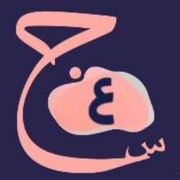
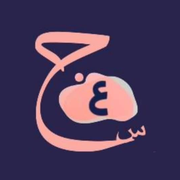
عرض الشعار كاملاً واسم الجمعية كاملاً تحته في الشريط العلوي
Claude-Session: https://claude.ai/code/session_01Jp84Jy5FVKogv7S8r9GrXq

diff --git a/src/features/home/home.css b/src/features/home/home.css
@@ -13,10 +13,11 @@
   position: sticky; top: env(safe-area-inset-top, 0px); z-index: 5;
   background: var(--surface); border-bottom: 1px solid var(--line);
 }
-.hm-top__row { display: flex; align-items: center; justify-content: space-between; gap: 12px; min-height: 60px; }
-.hm-brand { display: flex; align-items: center; gap: 10px; min-width: 0; }
-.hm-brand img { border-radius: 10px; flex: none; }
-.hm-brand b { font-family: var(--f-display); font-size: 1.05rem; white-space: nowrap; overflow: hidden; text-overflow: ellipsis; }
+.hm-top__row { display: flex; align-items: center; justify-content: space-between; gap: 12px; padding-block: 8px; }
+/* الشعار كاملاً، والاسم كاملاً تحته */
+.hm-brand { display: flex; flex-direction: column; align-items: center; gap: 4px; text-align: center; }
+.hm-brand img { border-radius: 12px; flex: none; }
+.hm-brand b { font-family: var(--f-display); font-size: 0.85rem; line-height: 1.3; color: var(--ink); }
 .hm-top__ask {
   display: inline-flex; align-items: center; gap: 6px; flex: none;
   color: var(--brand); text-decoration: none; font-weight: 700; font-size: 0.95rem;

diff --git a/src/features/assistant/assistant.css b/src/features/assistant/assistant.css
@@ -70,7 +70,7 @@
 .ast-topbar__title { display: flex; align-items: center; gap: 10px; flex: 1; min-width: 0; }
 .ast-topbar__title img { border-radius: 9px; }
 .ast-topbar__title > div { min-width: 0; }
-.ast-topbar h1 { font-size: 1.05rem; line-height: 1.3; white-space: nowrap; overflow: hidden; text-overflow: ellipsis; }
+.ast-topbar h1 { font-size: 1.05rem; line-height: 1.3; }
 .ast-status { display: flex; align-items: center; gap: 6px; font-size: 0.78rem; color: var(--muted); }
 .ast-status i { width: 7px; height: 7px; border-radius: 50%; background: var(--ok); box-shadow: 0 0 0 3px var(--brand-soft); }
 

diff --git a/src/features/home/HomePage.tsx b/src/features/home/HomePage.tsx
@@ -23,7 +23,7 @@ export default function HomePage() {
       <header className="hm-top">
         <div className="hm-wrap hm-top__row">
           <span className="hm-brand">
-            <img src={org.logo} alt="" width={40} height={40} />
+            <img src={org.logo} alt="" width={46} height={46} />
             <b>{org.name}</b>
           </span>
           <Link className="hm-top__ask" to={routes.assistant}>
